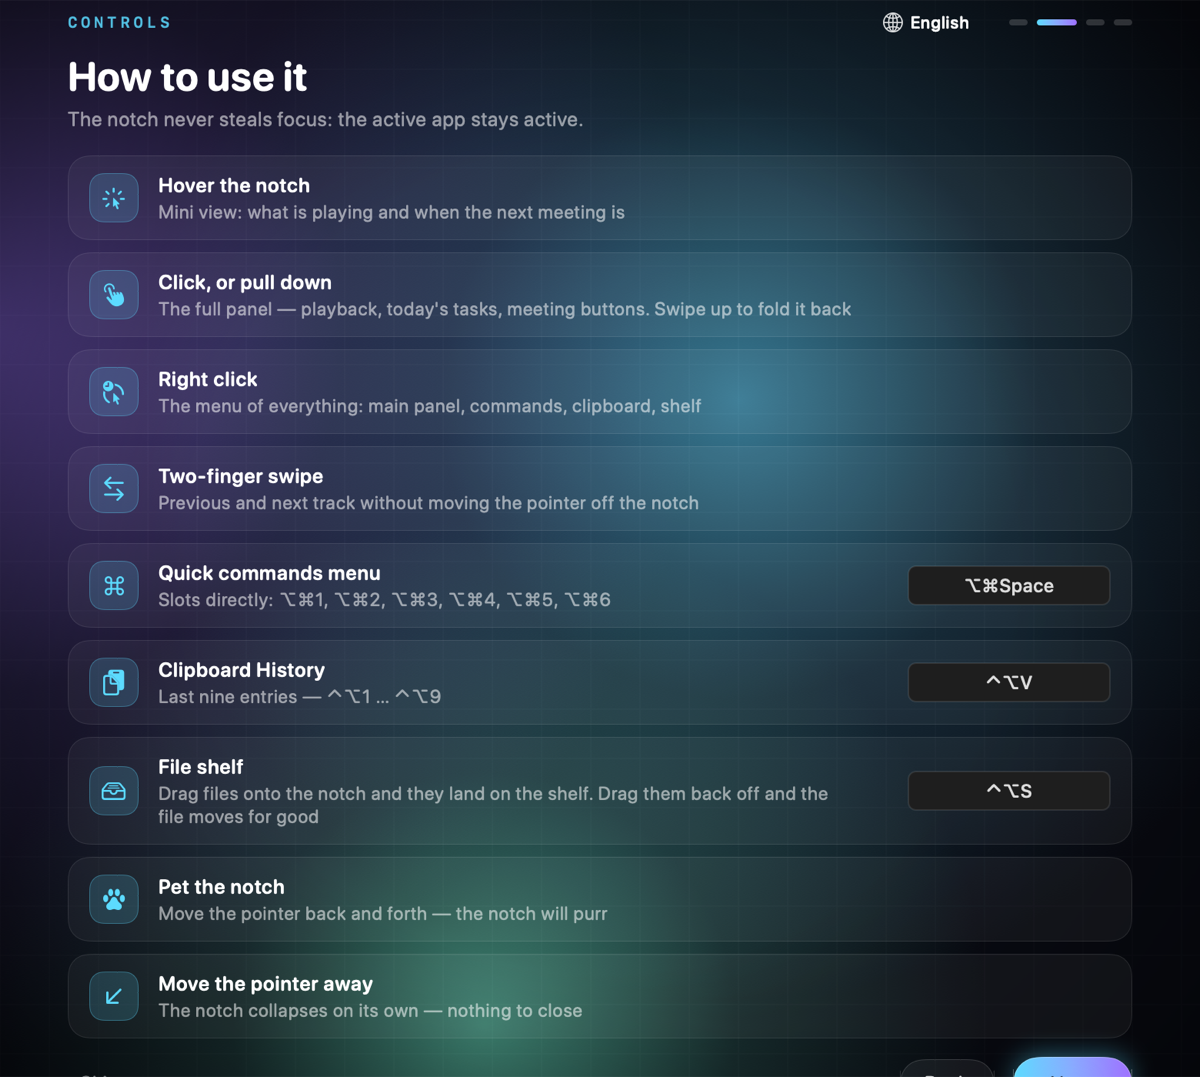
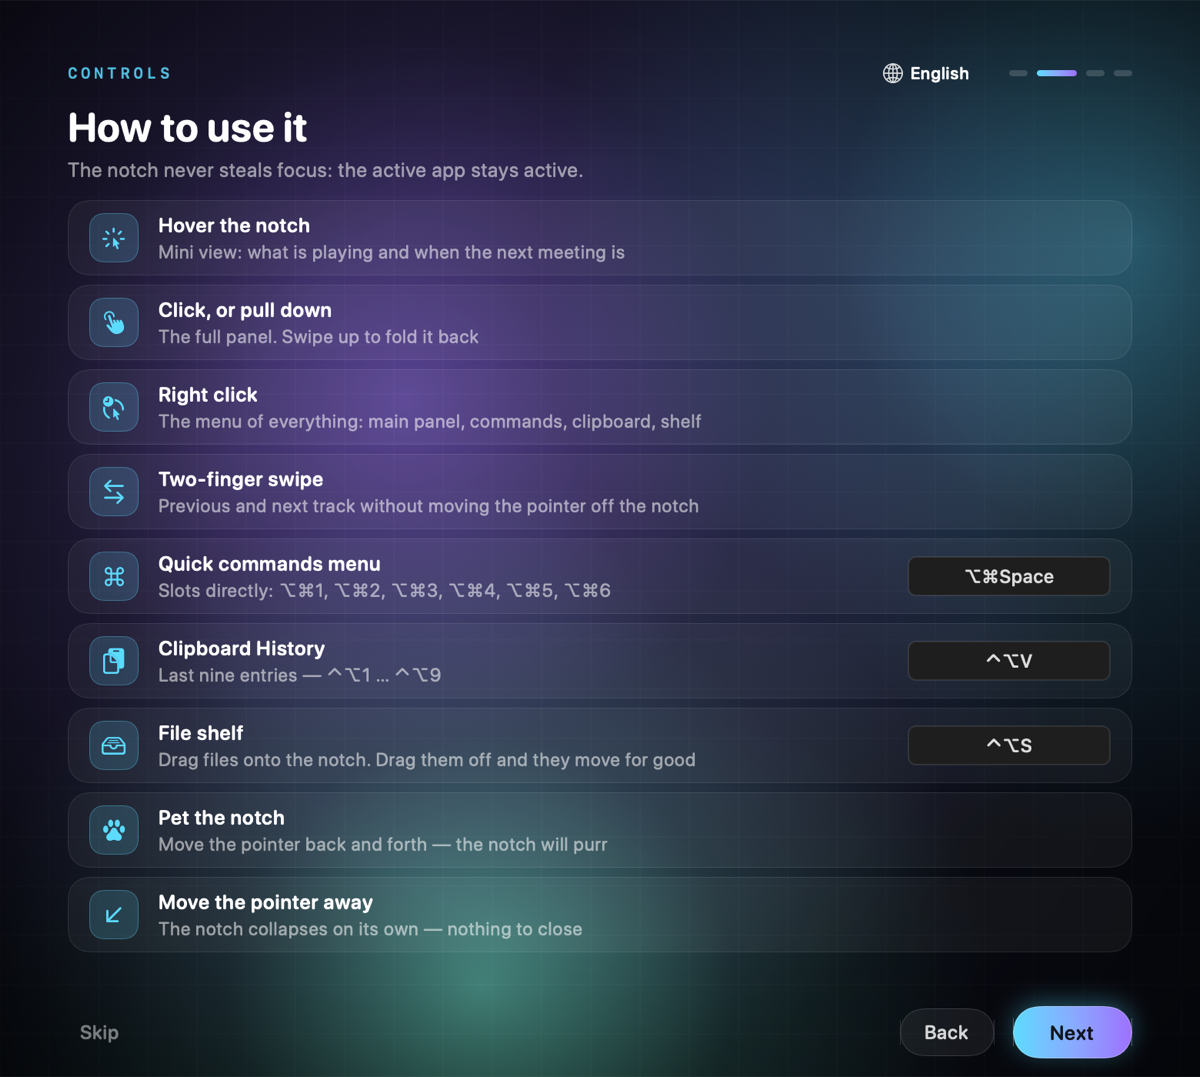
Второй шаг знакомства не помещался в окно
Строка про правую кнопку стала девятой, и список перестал влезать: снизу
обрезались кнопки, сверху — надпись шага. Та же беда, что была с плитками
в ряд: содержимое выше окна растягивает раскладку, а frame центрирует
переросшее.

Строки стали плотнее, два самых длинных описания сокращены до одной строки,
список обёрнут в прокрутку — на случай, если строк станет ещё больше.

diff --git a/Sources/Trunook/Welcome/WelcomeView.swift b/Sources/Trunook/Welcome/WelcomeView.swift
@@ -178,24 +178,30 @@ struct WelcomeView: View {
     // MARK: Шаг 2 — управление
 
     private var gesturesStep: some View {
-        VStack(alignment: .leading, spacing: 16) {
+        VStack(alignment: .leading, spacing: 12) {
             stepTitle(t("Как этим пользоваться"), subtitle: t("Вырез не отбирает фокус: активное приложение остаётся активным."))
-            VStack(spacing: 8) {
-                gesture("cursorarrow.rays", t("Наведите курсор на вырез"),
-                        t("Мини-вид: что играет и когда ближайшая встреча"))
-                gesture("hand.tap.fill", t("Нажмите или потяните вниз"),
-                        t("Панель целиком — перемотка, задачи на сегодня, кнопки встречи. Свайп вверх сворачивает её обратно"))
-                gesture("cursorarrow.click.badge.clock", t("Правая кнопка"),
-                        t("Меню всех функций: главный экран, команды, буфер, полка"))
-                gesture("arrow.left.arrow.right", t("Свайп двумя пальцами"),
-                        t("Предыдущий и следующий трек, не убирая курсор с выреза"))
-                menuHotKeyRow
-                clipboardHotKeyRow
-                shelfHotKeyRow
-                gesture("pawprint.fill", t("Погладьте чёлку"),
-                        t("Поводите курсором из стороны в сторону — вырез замурчит"))
-                gesture("arrow.down.left", t("Уведите курсор"),
-                        t("Вырез свернётся сам — закрывать ничего не нужно"))
+            // Прокрутка — страховка, а не задумка: строк девять, и каждая
+            // новая раньше выдавливала содержимое за края окна в обе стороны.
+            // Список должен помещаться и без прокрутки, но если не поместится,
+            // пусть лучше прокручивается, чем обрезает кнопки.
+            ScrollView(.vertical, showsIndicators: false) {
+                VStack(spacing: 6) {
+                    gesture("cursorarrow.rays", t("Наведите курсор на вырез"),
+                            t("Мини-вид: что играет и когда ближайшая встреча"))
+                    gesture("hand.tap.fill", t("Нажмите или потяните вниз"),
+                            t("Панель целиком. Свайп вверх сворачивает её обратно"))
+                    gesture("cursorarrow.click.badge.clock", t("Правая кнопка"),
+                            t("Меню всех функций: главный экран, команды, буфер, полка"))
+                    gesture("arrow.left.arrow.right", t("Свайп двумя пальцами"),
+                            t("Предыдущий и следующий трек, не убирая курсор с выреза"))
+                    menuHotKeyRow
+                    clipboardHotKeyRow
+                    shelfHotKeyRow
+                    gesture("pawprint.fill", t("Погладьте чёлку"),
+                            t("Поводите курсором из стороны в сторону — вырез замурчит"))
+                    gesture("arrow.down.left", t("Уведите курсор"),
+                            t("Вырез свернётся сам — закрывать ничего не нужно"))
+                }
             }
         }
     }
@@ -230,7 +236,7 @@ struct WelcomeView: View {
                 .frame(width: 132, height: 26)
             }
             .padding(.horizontal, 14)
-            .padding(.vertical, 11)
+            .padding(.vertical, 8)
         }
     }
 
@@ -263,7 +269,7 @@ struct WelcomeView: View {
                 .frame(width: 132, height: 26)
             }
             .padding(.horizontal, 14)
-            .padding(.vertical, 11)
+            .padding(.vertical, 8)
         }
     }
 
@@ -295,13 +301,13 @@ struct WelcomeView: View {
                 .frame(width: 132, height: 26)
             }
             .padding(.horizontal, 14)
-            .padding(.vertical, 11)
+            .padding(.vertical, 8)
         }
     }
 
     private var shelfHint: String {
         settings.shelfEnabled
-            ? t("Ведите файлы на чёлку — они лягут на полку. Обратно перетаскиванием: файл переезжает насовсем")
+            ? t("Ведите файлы на чёлку. Обратно — перетаскиванием, насовсем")
             : t("Приём файлов выключен в настройках")
     }
 
@@ -338,7 +344,7 @@ struct WelcomeView: View {
                 Spacer(minLength: 0)
             }
             .padding(.horizontal, 14)
-            .padding(.vertical, 11)
+            .padding(.vertical, 8)
         }
     }
 
@@ -444,7 +450,7 @@ struct WelcomeView: View {
                 .tint(WelcomePalette.cyan)
             }
             .padding(.horizontal, 14)
-            .padding(.vertical, 11)
+            .padding(.vertical, 8)
         }
     }
 
@@ -473,7 +479,7 @@ struct WelcomeView: View {
                 .buttonStyle(WelcomeGhostButton())
             }
             .padding(.horizontal, 14)
-            .padding(.vertical, 11)
+            .padding(.vertical, 8)
         }
     }
 
